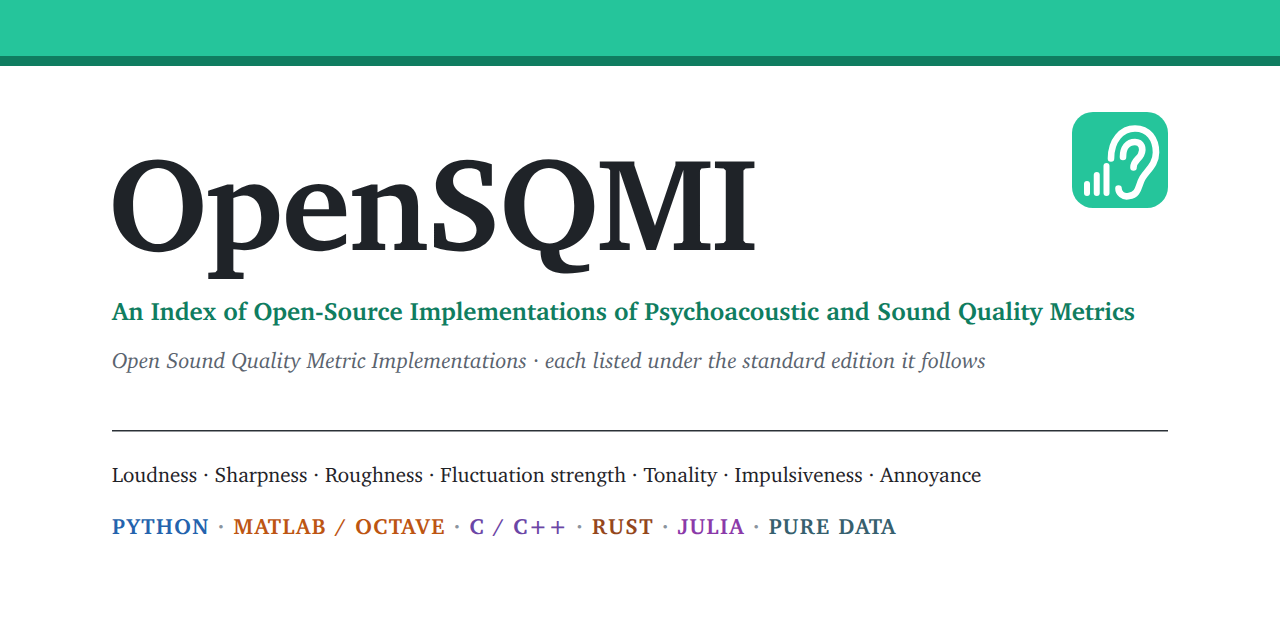
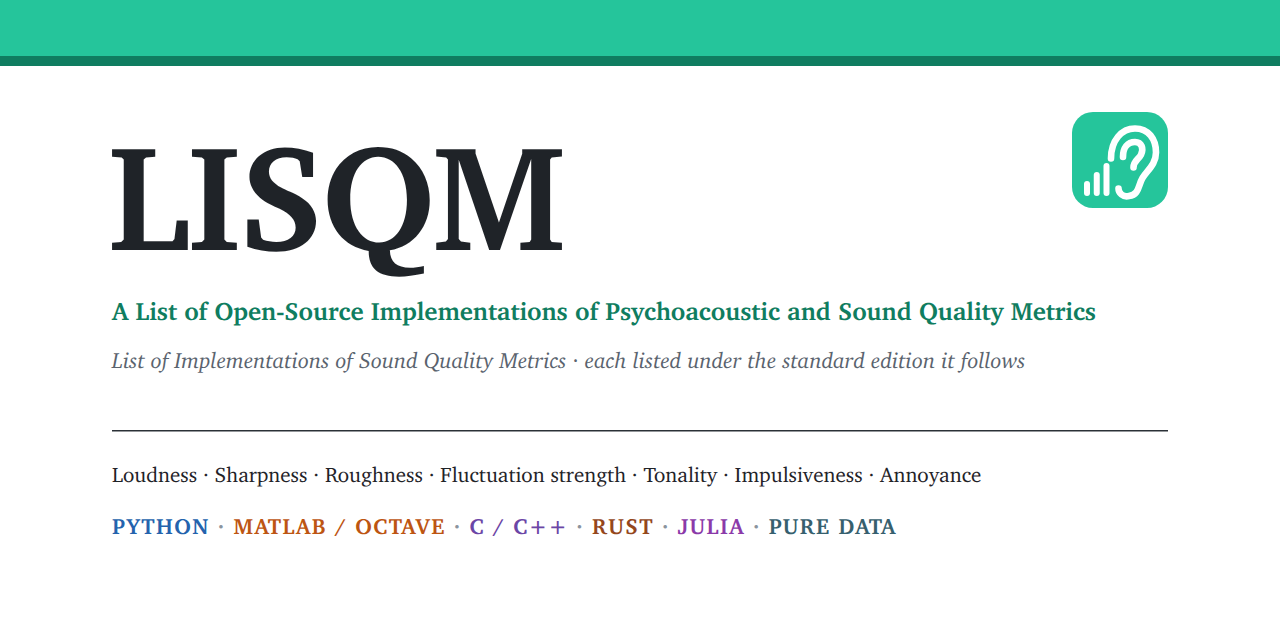
Rename the index to LISQM (List of Implementations of Sound Quality Metrics)
The subtitle is "A List of Open-Source Implementations of Psychoacoustic and Sound Quality Metrics". The name
replaces OpenSQMI in the masthead, page titles, READMEs, citation, llms.txt, JSON, feed, social card and the
bot's user agent; the About page says that LISQM computes nothing itself.

Changed region(s): [[0.0625, 0.2188, 0.5938, 0.4375], [0.0938, 0.5312, 0.8125, 0.5938], [0.0938, 0.4688, 0.9062, 0.5]]

diff --git a/site-src/style.css b/site-src/style.css
@@ -1,4 +1,4 @@
-/* OpenSQMI: Open Sound Quality Metric Implementations
+/* LISQM: List of Implementations of Sound Quality Metrics
    Layout: a green masthead and a tab bar over one wide container for desktop screens. Every
    page has a sidebar that lists the contents of its tab. Inside, the text is set like a blog: serif type, ruled
    tables, a comfortable measure for running text. Colour is for reading: links are clearly blue, and the states

diff --git a/scripts/pmi/describe.py b/scripts/pmi/describe.py
@@ -34,16 +34,16 @@ ONLY_NEW = ("So far only newly released projects, which are not yet widely used 
 
 
 def introduce(site: dict) -> str:
-    """What the name stands for, then the site description: "OpenSQMI stands for … It is an index …"."""
+    """What the name stands for, then the site description: "LISQM stands for … It is an index …"."""
     text = site["description"].strip()
     return f"{site['name']} stands for {site['title']}. It is {text[:1].lower()}{text[1:]}"
 
 
 def name_note(site: dict) -> str:
-    """What "open" refers to, and that the index computes nothing itself."""
-    return (f"“Open” refers to the code: every indexed implementation is open source, and {site['name']} itself is "
-            f"open data. Many of the standards the implementations follow are not free. {site['name']} computes "
-            "nothing itself; it lists and compares the implementations.")
+    """That the index computes nothing itself, and what is open."""
+    return (f"{site['name']} computes nothing itself; it lists and compares the implementations. Every listed "
+            f"implementation is open source and {site['name']} itself is open data, but many of the standards the "
+            "implementations follow are not free.")
 
 
 GROUP_RULE = ("Every project is in exactly one group, decided in this order: others if it computes nothing itself "

diff --git a/tests/test_refresh.py b/tests/test_refresh.py
@@ -88,7 +88,7 @@ class GitHubTest(FakeWebCase):
         self.assertEqual(len(web.requests), 4)
         for request in web.requests:
             headers = {name.lower(): value for name, value in request.header_items()}
-            self.assertTrue(headers["user-agent"].startswith("OpenSQMI-bot"))
+            self.assertTrue(headers["user-agent"].startswith("LISQM-bot"))
             if request.host == "api.github.com":
                 self.assertEqual(headers["authorization"], "Bearer secret")
                 self.assertEqual(headers["accept"], "application/vnd.github+json")

diff --git a/scripts/_common.py b/scripts/_common.py
@@ -191,7 +191,7 @@ def user_agent() -> str:
         repository = (load_yaml(DATA_DIR / "site.yaml") or {}).get("repository")
     except (OSError, yaml.YAMLError, AttributeError):
         repository = None
-    name = "OpenSQMI-bot"
+    name = "LISQM-bot"
     return f"{name} (+{repository})" if repository else name
 
 

diff --git a/scripts/pmi/__init__.py b/scripts/pmi/__init__.py
@@ -1,1 +1,1 @@
-"""OpenSQMI (Open Sound Quality Metric Implementations): data loading, validation and rendering used by scripts/build.py."""
+"""LISQM (List of Implementations of Sound Quality Metrics): data loading, validation and rendering used by scripts/build.py."""

diff --git a/README.zh-CN.md b/README.zh-CN.md
@@ -1,10 +1,10 @@
-# OpenSQMI
+# LISQM
 
-**心理声学与声品质指标开源实现索引**（An Index of Open-Source Implementations of Psychoacoustic and Sound Quality Metrics）
+**心理声学与声品质指标开源实现列表**（A List of Open-Source Implementations of Psychoacoustic and Sound Quality Metrics）
 
-OpenSQMI 是 Open Sound Quality Metric Implementations 的缩写，意思是“开源的声品质指标实现”。它收录心理声学指标
+LISQM 是 List of Implementations of Sound Quality Metrics 的缩写，意思是“声品质指标实现列表”。它收录心理声学指标
 （也叫声品质指标，sound quality metrics）的开源实现，覆盖响度、尖锐度、粗糙度、波动强度、音调性、冲击性和心理声学
-烦恼度，不限编程语言。每个实现都按它对应的标准版本或模型论文归类，数据每月自动刷新。OpenSQMI 本身不计算任何指标，
+烦恼度，不限编程语言。每个实现都按它对应的标准版本或模型论文归类，数据每月自动刷新。LISQM 本身不计算任何指标，
 只列出和比较各个实现。
 
 Developed by Zhenxian LI with assistance from Claude Code.

diff --git a/README.md b/README.md
@@ -1,11 +1,11 @@
-# OpenSQMI
+# LISQM
 
-**An Index of Open-Source Implementations of Psychoacoustic and Sound Quality Metrics**
+**A List of Open-Source Implementations of Psychoacoustic and Sound Quality Metrics**
 
-OpenSQMI stands for Open Sound Quality Metric Implementations. It lists open-source implementations of
+LISQM stands for List of Implementations of Sound Quality Metrics. It lists open-source implementations of
 psychoacoustic metrics, also called sound quality (SQ) metrics: loudness, sharpness, roughness, fluctuation
 strength, tonality, impulsiveness and psychoacoustic annoyance. Each implementation is listed under the standard
-edition or model paper it follows. Any programming language. Refreshed every month. OpenSQMI computes nothing
+edition or model paper it follows. Any programming language. Refreshed every month. LISQM computes nothing
 itself; it lists and compares the implementations.
 
 Developed by Zhenxian LI with assistance from Claude Code.

diff --git a/CHANGELOG.md b/CHANGELOG.md
@@ -2,9 +2,9 @@
 
 Notable changes to the index. This file is generated from `data/updates.yaml`; the same notes are on the website (https://zhenxianli.github.io/psychoacoustic-metrics-index/updates.html) and in its Atom feed.
 
-## 2026-10-06: First public version of OpenSQMI
+## 2026-10-06: First public version of LISQM
 
-OpenSQMI (Open Sound Quality Metric Implementations) starts with 32 projects in Python, MATLAB, Octave, C,
+LISQM (List of Implementations of Sound Quality Metrics) starts with 32 projects in Python, MATLAB, Octave, C,
 C++, Rust, Julia and Pure Data, and 22 methods from Zwicker loudness to aural detectability. Every implementation is
 tied to the standard edition or model paper it follows, with links to the documentation the facts were taken
 from. Repository dates, releases and package versions are refreshed once a month.

diff --git a/data/SCHEMA.md b/data/SCHEMA.md
@@ -5,7 +5,7 @@ directory. Edit these files, never the generated output.
 
 | File | Edited by | Contents |
 |---|---|---|
-| `site.yaml` | people | Short name (OpenSQMI), what it stands for, subtitle, base URL, maintainer, thresholds |
+| `site.yaml` | people | Short name (LISQM), what it stands for, subtitle, base URL, maintainer, thresholds |
 | `metrics.yaml` | people | Metric families and methods (one page per method) |
 | `references.yaml` | people | Standard editions, model papers and books that methods are defined by |
 | `projects/<id>.yaml` | people | One file per indexed project, including what it implements |

diff --git a/CONTRIBUTING.md b/CONTRIBUTING.md
@@ -1,6 +1,6 @@
 # Contributing
 
-Thank you for helping to keep OpenSQMI complete and accurate. The index lists
+Thank you for helping to keep LISQM complete and accurate. The index lists
 open-source implementations of psychoacoustic metrics, organised by the standard edition or model paper each
 one follows. The repository holds data and a static-site generator, not metric code: the website, the README
 tables and `data/index.json` are all generated from the YAML files in [`data/`](data/), which are described in
